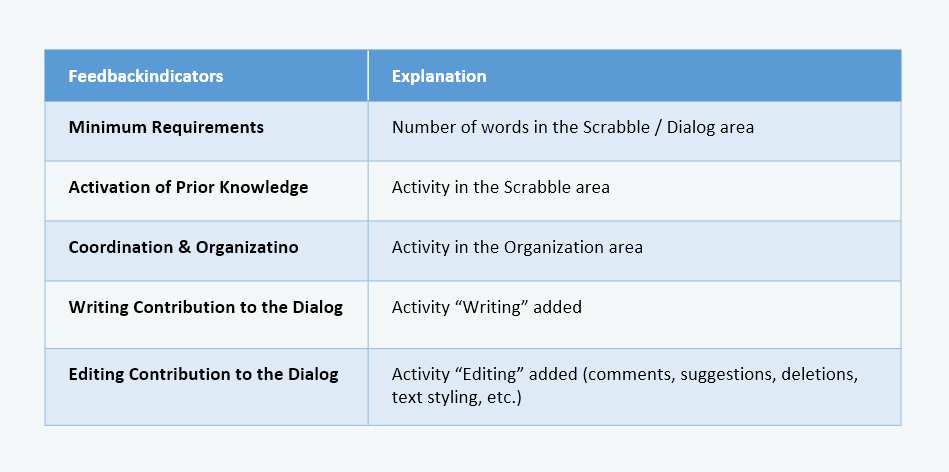
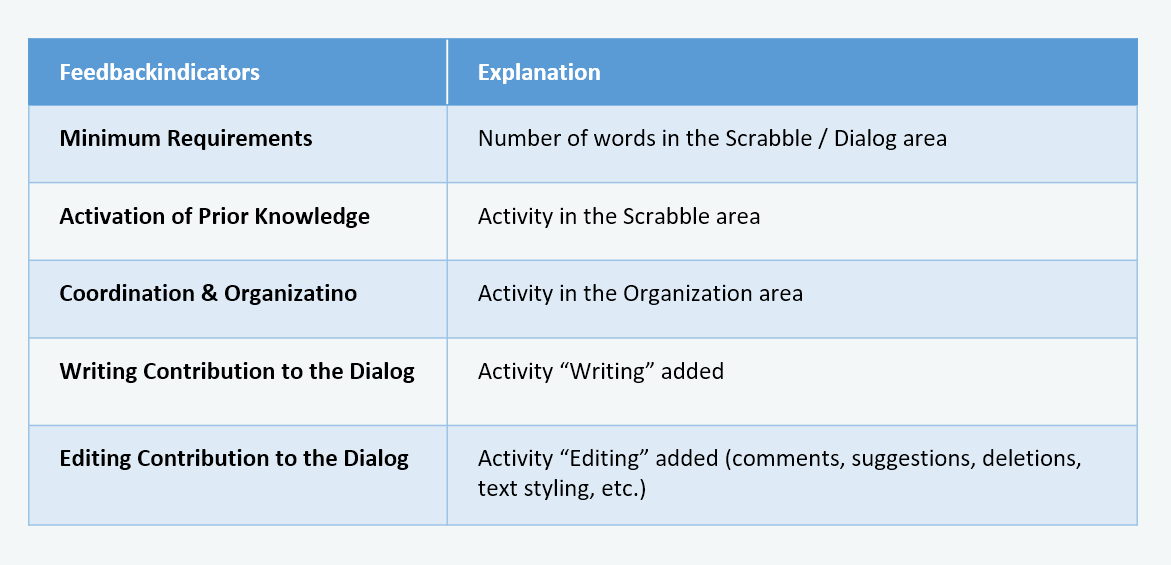
refactor: update student task image and remove obsolete file

Changed region(s): [[0.0, 0.0593, 0.9779, 0.9492]]

diff --git a/index.md b/index.md
@@ -42,7 +42,7 @@ The following figures illustrate the collaborative editor in use, with structure
   </figure>
 
   <figure class="figure-card">
-    <img src="{{ '/assets/images/octipad/student-task-first-trial.png' | relative_url }}" alt="OctiPad students' task overview" loading="lazy" />
+    <img src="{{ '/assets/images/octipad/student-task.png' | relative_url }}" alt="OctiPad students' task overview" loading="lazy" />
     <figcaption>
       <strong>Figure 3.</strong> General idea and overview of the students' task.
     </figcaption>
